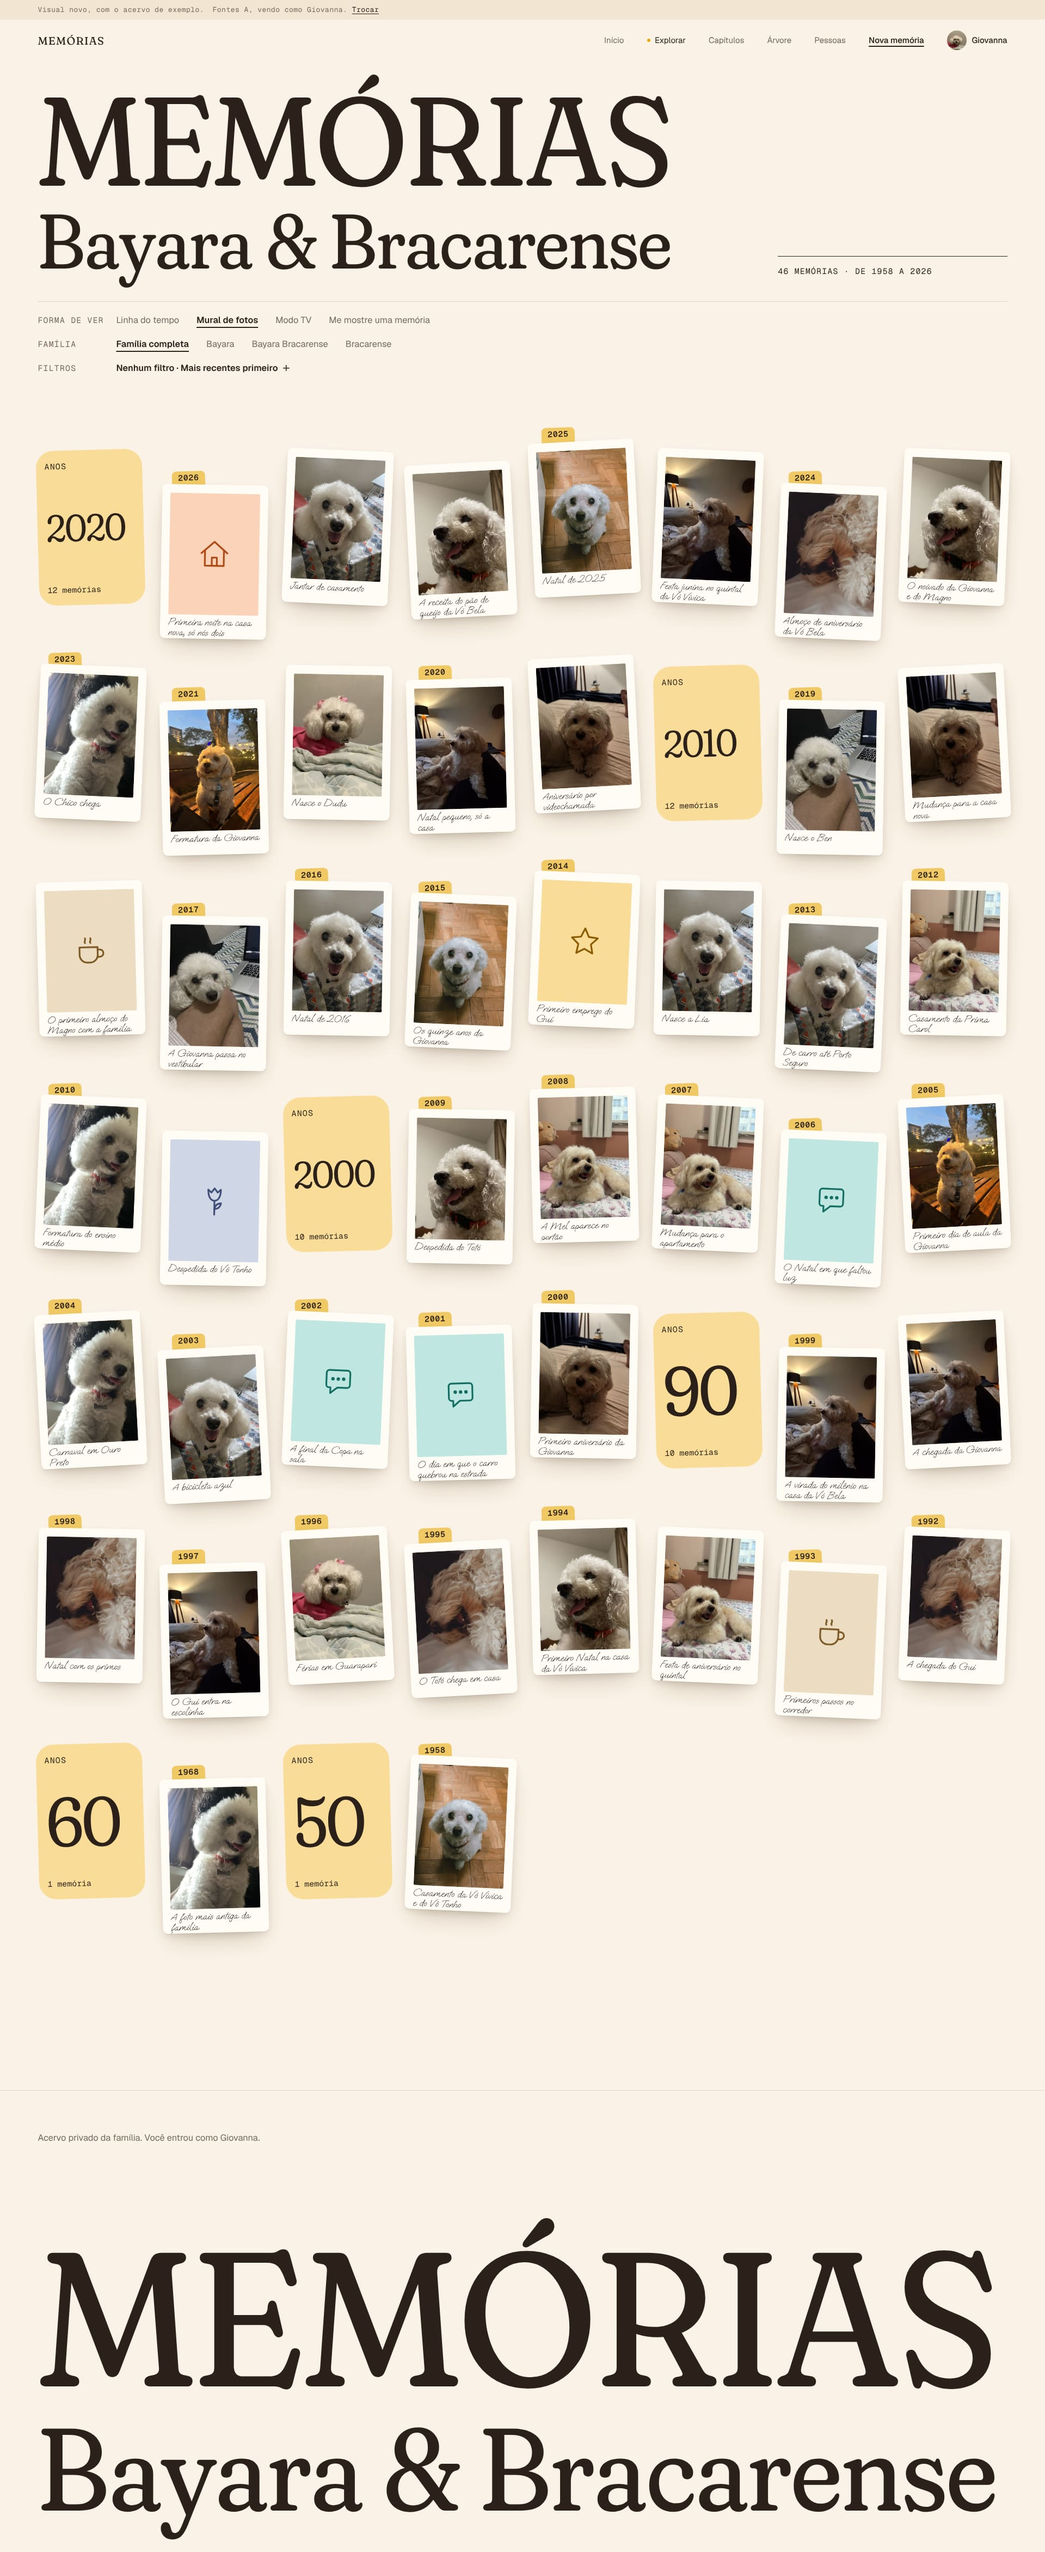
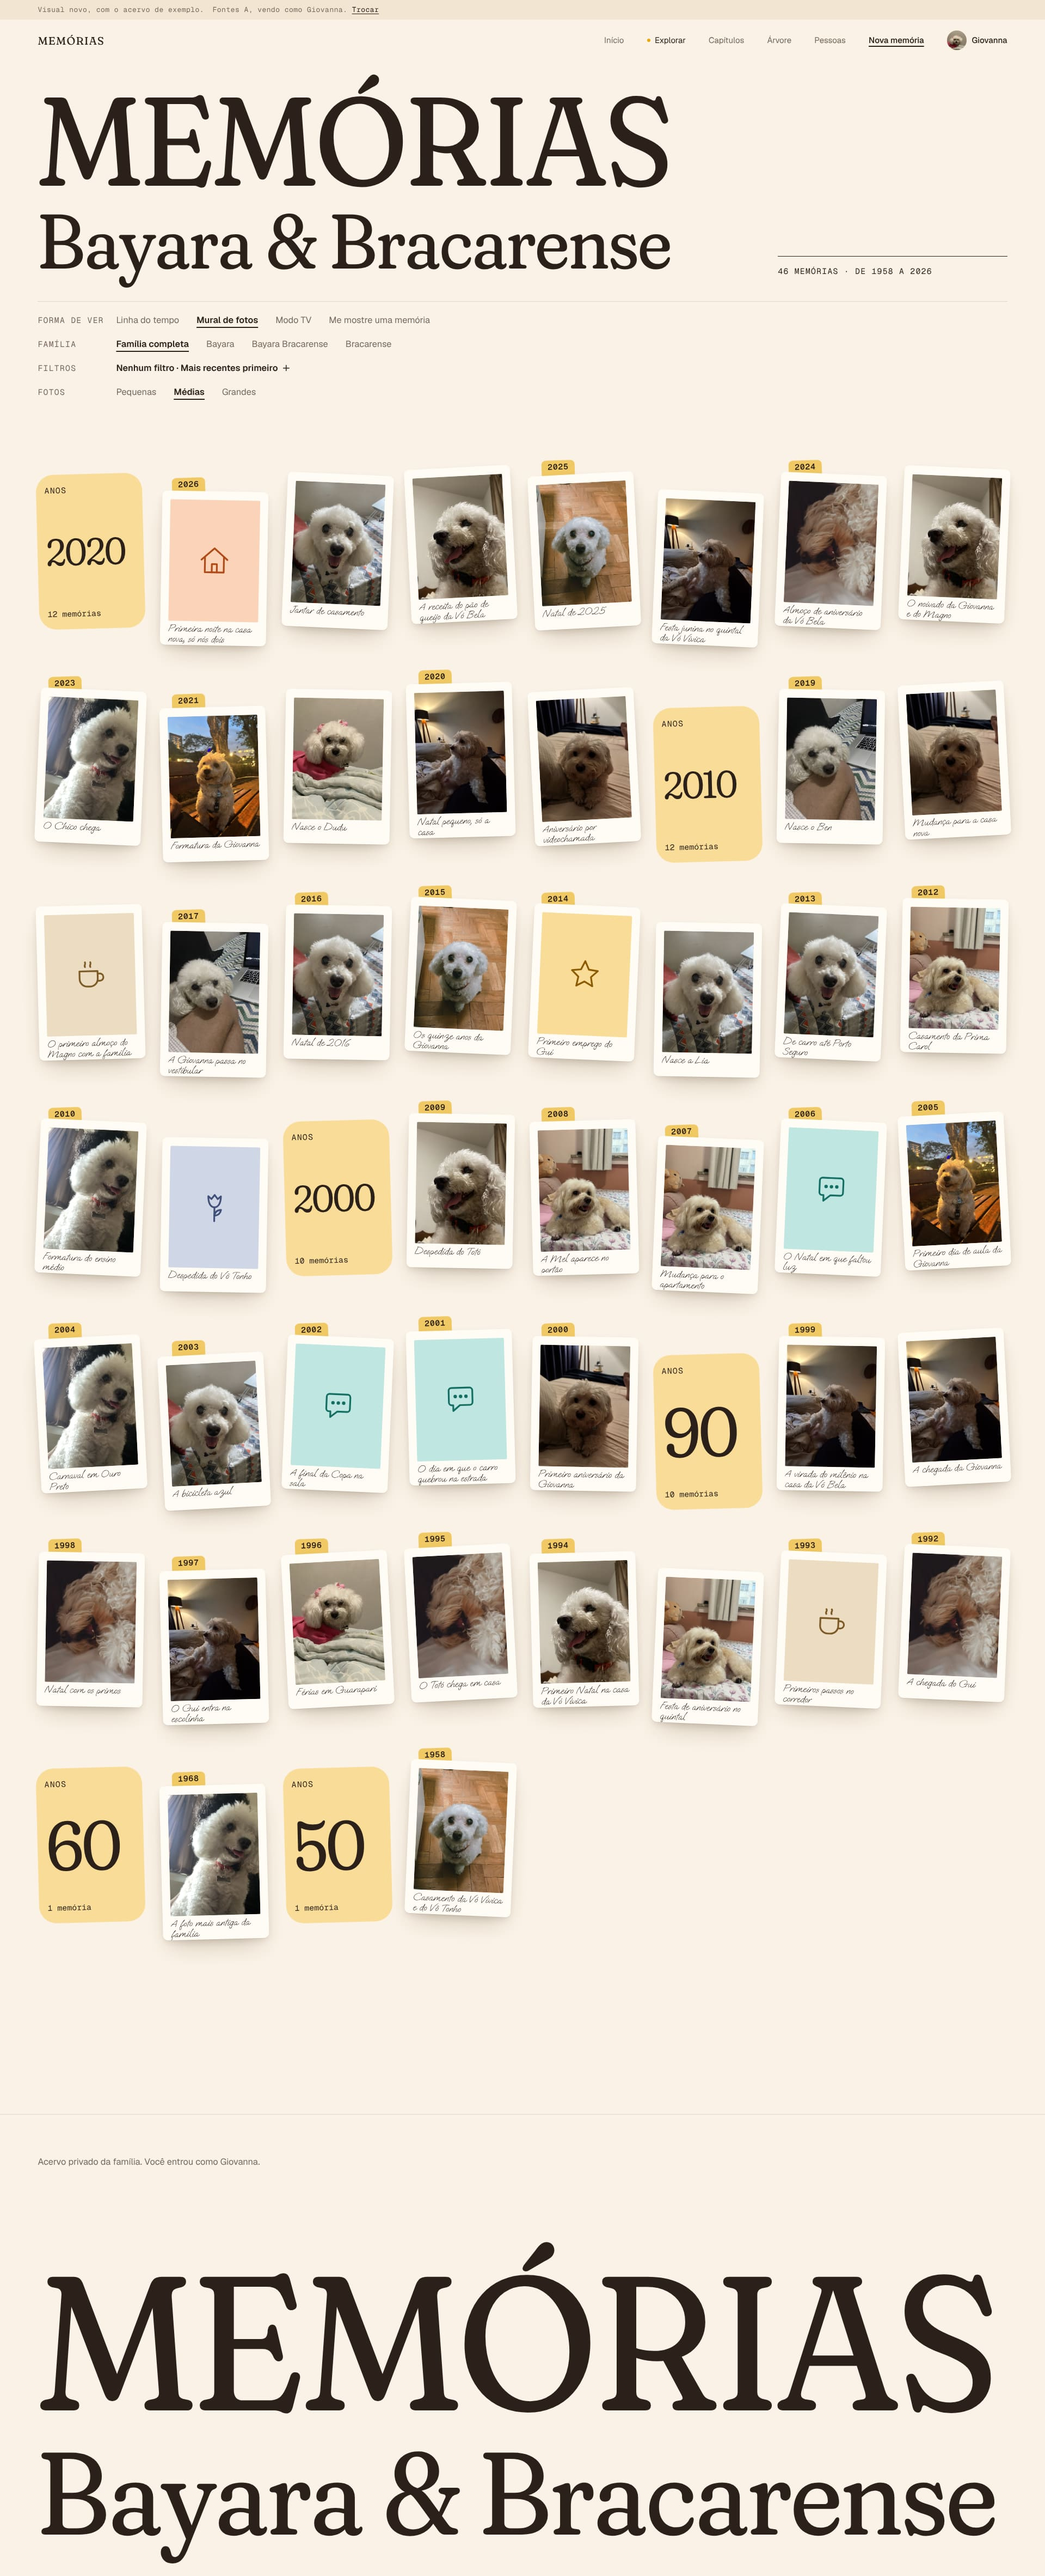
Mural: o verso em dupla ao lado da foto e o tamanho das fotos
Decisões do Gui (17/11/2026). A aba do ano e o cartão da década ficam.

- O verso deixa de ser uma ficha pequena: é um cartão do tamanho da
  foto, que sai de trás dela para o lado, como uma dupla.
- O controle "Fotos" escolhe a densidade do mural: pequenas, médias ou
  grandes. A escolha fica no endereço e acompanha família e filtros.
- Testes das duas regras, capturas refeitas e registro em docs/visual.md.

Claude-Session: https://claude.ai/code/session_011NsaCMeNce7JqX6hEeTsgT

diff --git a/src/visual/telas/explorar.css b/src/visual/telas/explorar.css
@@ -174,34 +174,42 @@
   rotate: -2deg;
 }
 
-/* A ficha do verso: fica atrás da foto e só desliza para o lado onde há mouse, ou com o foco do
-   teclado. No toque ela não aparece: o título na margem basta. O leitor de tela lê sempre. */
+/* O verso: um cartão do tamanho da foto, que sai de trás dela para o lado, um pouco virado para o
+   outro lado, como uma dupla. Só onde há mouse, ou com o foco do teclado. No toque ele não aparece:
+   o título na margem basta. O leitor de tela lê sempre. */
 .mural__verso {
   position: absolute;
   z-index: 0;
-  top: 16%;
-  left: calc(100% - 1.25rem);
+  top: 0;
+  left: 90%;
+  box-sizing: border-box;
   display: grid;
+  align-content: start;
   justify-items: start;
-  gap: var(--e-2);
-  width: max-content;
-  max-width: 15rem;
-  padding: var(--e-4) var(--e-4) var(--e-4) calc(var(--e-4) + 1.25rem);
+  gap: var(--e-3);
+  width: max(100%, 10.5rem);
+  min-height: 100%;
+  padding: var(--e-5) var(--e-4) var(--e-4) calc(var(--e-4) + 6%);
   border-radius: var(--raio-moldura);
   background: var(--branco);
-  box-shadow: var(--sombra-bilhete);
+  box-shadow: var(--sombra-foto);
   opacity: 0;
-  translate: -1.5rem 0;
+  translate: -45% 0;
+  rotate: 0deg;
   pointer-events: none;
   transition:
     opacity var(--tempo-curto) var(--curva),
-    translate var(--tempo-medio) var(--curva);
+    translate var(--tempo-medio) var(--curva),
+    rotate var(--tempo-medio) var(--curva);
+}
+.mural__verso .carimbo {
+  white-space: normal;
 }
 .mural__foto[data-para-a-esquerda] .mural__verso {
   left: auto;
-  right: calc(100% - 1.25rem);
-  padding: var(--e-4) calc(var(--e-4) + 1.25rem) var(--e-4) var(--e-4);
-  translate: 1.5rem 0;
+  right: 90%;
+  padding: var(--e-5) calc(var(--e-4) + 6%) var(--e-4) var(--e-4);
+  translate: 45% 0;
 }
 .mural__foto:has(a:focus-visible) {
   z-index: 3;
@@ -209,6 +217,10 @@
 .mural a:focus-visible .mural__verso {
   opacity: 1;
   translate: 0 0;
+  rotate: 2.5deg;
+}
+.mural__foto[data-para-a-esquerda] a:focus-visible .mural__verso {
+  rotate: -2.5deg;
 }
 @media (hover: hover) and (pointer: fine) {
   .mural__foto:hover {
@@ -217,7 +229,34 @@
   .mural a:hover .mural__verso {
     opacity: 1;
     translate: 0 0;
+    rotate: 2.5deg;
   }
+  .mural__foto[data-para-a-esquerda] a:hover .mural__verso {
+    rotate: -2.5deg;
+  }
+}
+
+/* O tamanho das fotos: quem está vendo escolhe. Nas pequenas do celular, o título não cabe na
+   margem e fica só a foto. */
+.mural[data-tamanho='pequenas'] {
+  grid-template-columns: repeat(3, minmax(0, 1fr));
+  gap: var(--e-6) var(--e-3);
+}
+.mural[data-tamanho='grandes'] {
+  grid-template-columns: minmax(0, 1fr);
+  padding-inline: 12%;
+}
+.mural[data-tamanho='grandes'] li:nth-child(n) {
+  translate: none;
+}
+@container (max-width: 7.5rem) {
+  .mural .polaroid .polaroid__legenda {
+    font-size: 0;
+  }
+}
+/* As três opções de tamanho cabem numa linha, mesmo no celular */
+.linha__opcoes--curtas {
+  grid-template-columns: repeat(3, max-content);
 }
 
 /* --- O palco: uma memória por vez ----------------------------------------------------------------
@@ -385,19 +424,28 @@
   .filtros__acoes {
     grid-column: 1 / -1;
   }
-  .mural {
-    grid-template-columns: repeat(6, minmax(0, 1fr));
+  .mural,
+  .mural[data-tamanho] {
+    --colunas: 6;
+    grid-template-columns: repeat(var(--colunas), minmax(0, 1fr));
     gap: var(--e-8) var(--calha);
     padding-top: var(--e-8);
+    padding-inline: var(--margem);
   }
-  .mural li:nth-child(even) {
+  .mural[data-tamanho='pequenas'] {
+    --colunas: 8;
+    row-gap: var(--e-7);
+  }
+  .mural[data-tamanho='grandes'] {
+    --colunas: 4;
+  }
+  .mural li:nth-child(n) {
     translate: none;
   }
-  .mural li:nth-child(6n + 2),
-  .mural li:nth-child(6n + 5) {
+  .mural li:nth-child(4n + 2) {
     translate: 0 var(--e-6);
   }
-  .mural li:nth-child(6n + 4) {
+  .mural li:nth-child(4n) {
     translate: 0 calc(-1 * var(--e-3));
   }
 
@@ -448,20 +496,14 @@
 }
 
 @media (min-width: 100rem) {
-  .mural {
-    grid-template-columns: repeat(8, minmax(0, 1fr));
+  .mural,
+  .mural[data-tamanho] {
+    --colunas: 8;
   }
-  .mural li:nth-child(n) {
-    translate: none;
+  .mural[data-tamanho='pequenas'] {
+    --colunas: 10;
   }
-  .mural li:nth-child(8n + 2),
-  .mural li:nth-child(8n + 7) {
-    translate: 0 var(--e-7);
-  }
-  .mural li:nth-child(8n + 4) {
-    translate: 0 var(--e-5);
-  }
-  .mural li:nth-child(8n + 5) {
-    translate: 0 calc(-1 * var(--e-4));
+  .mural[data-tamanho='grandes'] {
+    --colunas: 5;
   }
 }

diff --git a/testes/visual.test.ts b/testes/visual.test.ts
@@ -274,17 +274,29 @@ describe('conceito', () => {
     expect(css).not.toMatch(/position\s*:\s*(sticky|fixed)/);
   });
 
-  it('no mural, a ficha do verso só aparece com o mouse ou com o foco do teclado, e a foto não vira', () => {
-    // Decisão do Gui, 17/11/2026: a ficha desliza de trás da foto, que continua à vista
+  it('no mural, o verso aparece ao lado da foto, como uma dupla, só com o mouse ou com o foco, e a foto não vira', () => {
+    // Decisão do Gui, 17/11/2026: o verso é um cartão do tamanho da foto, que sai de trás dela
     const mural = tela('explorar/Mural.astro');
     expect(mural).toMatch(/<span class="mural__verso">\s*<Carimbo itens=\{\[carimboDaData\(m\), m\.lugar\]\} \/>/);
     const css = ler('telas/explorar.css');
-    expect(css).toMatch(/\.mural__verso\s*\{[^}]*opacity:\s*0;[^}]*pointer-events:\s*none/);
+    expect(css).toMatch(/\.mural__verso\s*\{[^}]*width:\s*max\(100%, [^}]*min-height:\s*100%;[^}]*opacity:\s*0;[^}]*pointer-events:\s*none/);
     const comMouse = css.slice(css.indexOf('@media (hover: hover) and (pointer: fine)'));
     expect(comMouse).toMatch(/\.mural a:hover \.mural__verso\s*\{[^}]*opacity:\s*1/);
     expect(css.slice(0, css.indexOf('@media (hover: hover) and (pointer: fine)'))).not.toMatch(/:hover \.mural__verso/);
     expect(css).toMatch(/\.mural a:focus-visible \.mural__verso\s*\{[^}]*opacity:\s*1/);
     expect(css).not.toMatch(/rotate[XY]|backface-visibility|perspective/);
+  });
+
+  it('no mural, quem está vendo escolhe o tamanho das fotos, e a escolha fica no endereço', () => {
+    // Decisão do Gui, 17/11/2026
+    const controles = tela('explorar/Controles.astro');
+    expect(controles).toMatch(/forma === 'mural' && \(\s*<div class="controle">\s*<p class="controle__nome rotulo suave" id="controle-tamanho">\s*Fotos\s*</);
+    expect(controles).toMatch(/enderecoDoExplorar\(filtros, forma, tamanhoNoEndereco\(t\)\)/);
+    // O tamanho acompanha a troca de família e o formulário dos filtros
+    expect(controles).toMatch(/<input type="hidden" name="tamanho"/);
+    expect(tela('explorar/Mural.astro')).toMatch(/data-tamanho=\{tamanho\}/);
+    const css = ler('telas/explorar.css');
+    for (const t of ['pequenas', 'grandes']) expect(css).toContain(`.mural[data-tamanho='${t}']`);
   });
 
   it('o modo TV passa as memórias por links, e só passa sozinho quando a pessoa liga', () => {

diff --git a/src/lib/explorar.ts b/src/lib/explorar.ts
@@ -234,6 +234,23 @@ export function enderecoDoExplorar(f: Filtros, forma: Forma = FORMA_PADRAO, mais
 }
 
 /**
+ * O tamanho das fotos no mural (decisão do Gui, 17/11/2026): quem está vendo escolhe a densidade,
+ * com fotos menores ou maiores. Fica no endereço, em `tamanho`; sem ele, o tamanho médio.
+ */
+export type Tamanho = 'pequenas' | 'medias' | 'grandes';
+export const TAMANHOS: Tamanho[] = ['pequenas', 'medias', 'grandes'];
+export const TAMANHO_PADRAO: Tamanho = 'medias';
+export const NOMES_DOS_TAMANHOS: Record<Tamanho, string> = { pequenas: 'Pequenas', medias: 'Médias', grandes: 'Grandes' };
+
+export function lerTamanho(p: URLSearchParams): Tamanho {
+  const pedido = p.get('tamanho');
+  return TAMANHOS.includes(pedido as Tamanho) ? (pedido as Tamanho) : TAMANHO_PADRAO;
+}
+
+/** O que vai no endereço para um tamanho (para `mais`, em enderecoDoExplorar): o padrão não vai. */
+export const tamanhoNoEndereco = (tamanho: Tamanho): Record<string, string | undefined> => ({ tamanho: tamanho === TAMANHO_PADRAO ? undefined : tamanho });
+
+/**
  * "Passar sozinho", no modo TV (decisão do Gui, 17/11/2026): quem está vendo escolhe o tempo de
  * cada memória, entre 8, 10 e 15 segundos, e pode pausar e retomar. Fica no endereço, como os
  * filtros: `passar` leva os segundos e `pausa`, a pausa. Sem `passar`, nada passa sozinho.

diff --git a/testes/explorar.test.ts b/testes/explorar.test.ts
@@ -210,6 +210,19 @@ describe('formas de ver e endereço', async () => {
     expect(enderecoDoExplorar(SEM_FILTRO, 'tv', { m: 'a', ...passarNoEndereco({ tempo: 15, pausado: true }) })).toBe('/explorar?ver=tv&m=a&passar=15&pausa=1');
   });
 
+  it('o tamanho das fotos do mural fica no endereço, e o médio é o padrão', async () => {
+    // Decisão do Gui, 17/11/2026
+    const { TAMANHOS, lerTamanho, tamanhoNoEndereco } = await import('../src/lib/explorar');
+    expect(TAMANHOS).toEqual(['pequenas', 'medias', 'grandes']);
+    expect(lerTamanho(new URLSearchParams(''))).toBe('medias');
+    expect(lerTamanho(new URLSearchParams('tamanho=enormes'))).toBe('medias');
+    expect(enderecoDoExplorar(SEM_FILTRO, 'mural', tamanhoNoEndereco('medias'))).toBe('/explorar?ver=mural');
+    for (const t of TAMANHOS) {
+      const endereco = enderecoDoExplorar(SEM_FILTRO, 'mural', tamanhoNoEndereco(t));
+      expect(lerTamanho(new URLSearchParams(endereco.split('?')[1]))).toBe(t);
+    }
+  });
+
   it('no modo TV, a de antes e a de depois saem da lista filtrada, na ordem dela', () => {
     const lista = [{ id: 'a' }, { id: 'b' }, { id: 'c' }];
     expect(vizinhasNaLista(lista, 'b')).toEqual({ posicao: 1, antes: { id: 'a' }, depois: { id: 'c' } });

diff --git a/docs/visual.md b/docs/visual.md
@@ -436,13 +436,14 @@ Cada grupo de telas vai num PR para a `homologa`, numa branch `tst-visual-<grupo
 
 **Linha do tempo.** A do conceito, sem mudança de desenho. Os trilhos, as épocas e a faixa de décadas só aparecem quando `mostraTrilhos` deixa. Em "Mais antigas primeiro", a página leva ao presente e o trilho acaba, embaixo, em "Fim do capítulo “Natais”" e "Fim da época “…”" (texto novo, para o Gui confirmar). Em "Entraram por último" e "Mais contadas", a lista é corrida, sem a divisória dos anos, e cada memória traz a data inteira.
 
-**Mural** (decisões do Gui, 17/11/2026, em três rodadas). A primeira versão era só as fotos, sem texto. Na segunda, a pedido dele, as fotos ficaram agrupadas por ano, com o ano grande como cabeçalho e o título na margem; ao ver, ele achou que o mural tinha virado uma segunda linha do tempo: o ano é para facilitar, e o mural precisa orientar sem perder a cara de mural. A terceira, que vale:
+**Mural** (decisões do Gui, 17/11/2026, em quatro rodadas). A primeira versão era só as fotos, sem texto. Na segunda, a pedido dele, as fotos ficaram agrupadas por ano, com o ano grande como cabeçalho e o título na margem; ao ver, ele achou que o mural tinha virado uma segunda linha do tempo: o ano é para facilitar, e o mural precisa orientar sem perder a cara de mural. A terceira, que vale:
 
-- **Uma superfície só.** As fotos-chave como fotos reveladas, de ponta a ponta, cada uma com a inclinação dela e um pouco fora de fila, sem cabeçalho nem seção. Duas colunas no celular (com três, o título à mão ficava pequeno demais para ler), seis no computador e oito na tela grande.
+- **Uma superfície só.** As fotos-chave como fotos reveladas, de ponta a ponta, cada uma com a inclinação dela e um pouco fora de fila, sem cabeçalho nem seção. No tamanho médio, duas colunas no celular (com três, o título à mão ficava pequeno demais para ler), seis no computador e oito na tela grande.
 - **A década é um cartão no meio das fotos.** Ocupa o lugar de uma foto, na cor da família, com "Anos" e o número grande em serifa ("90", "2010") e a conta das memórias da década. A fila de fotos continua na mesma linha depois dele. Um cartão por ano foi descartado: o acervo de exemplo tem 46 memórias em cerca de 30 anos, e seriam quase tantos cartões quanto fotos.
 - **O ano é uma aba na primeira foto de cada ano**, como a de um fichário, saindo do alto da foto. Não ocupa lugar e não interrompe a fila.
 - **O título na margem.** Só o título da memória, pequeno, na letra manuscrita, em até duas linhas. Vale também para a memória sem foto, que entra como cartão na cor do tipo. É o segundo uso da manuscrita, que até aqui só assinava os relatos.
-- **A ficha do verso, no computador.** Ao passar o mouse, a foto endireita e sobe um pouco e, de trás dela, desliza uma ficha com o carimbo (data e lugar), quem estava e quantos relatos. A foto continua à vista, e o clique abre a memória, que é o verso inteiro. Perto da borda direita da tela, a ficha sai para a esquerda. O foco do teclado faz o mesmo, e com movimento reduzido a ficha aparece sem deslizar. No toque ela não aparece: o título na margem basta. Virar a foto foi pensado e descartado: esconde a foto no momento em que a pessoa aponta para ela, faz várias virarem em sequência quando o mouse passa pela grade e fica perto do "cartão que deita", que está fora do movimento combinado.
+- **O verso, no computador** (quarta rodada: a ficha pequena que deslizava de trás da foto não funcionou; a aba do ano e o cartão da década, sim). Ao passar o mouse, a foto endireita e sobe um pouco e o verso dela aparece ao lado, saindo de trás, como uma dupla: um cartão do mesmo tamanho da foto, um pouco virado para o outro lado, com o carimbo (data e lugar), quem estava e quantos relatos. A foto continua à vista, e o clique abre a memória. Perto da borda direita da tela, o verso sai para a esquerda. O foco do teclado faz o mesmo, e com movimento reduzido o verso aparece sem deslizar. No toque ele não aparece: o título na margem basta. Virar a foto foi pensado e descartado: esconde a foto no momento em que a pessoa aponta para ela, faz várias virarem em sequência quando o mouse passa pela grade e fica perto do "cartão que deita", que está fora do movimento combinado.
+- **O tamanho das fotos** (decisão do Gui, 17/11/2026). No mural, o controle "Fotos" deixa escolher a densidade: Pequenas, Médias (o padrão) ou Grandes. Fica no endereço (`tamanho`), como os filtros, e acompanha a troca de família e o formulário. Colunas no celular, no computador e na tela grande: 3, 8 e 10 nas pequenas; 2, 6 e 8 nas médias; 1, 4 e 5 nas grandes. Nas pequenas do celular o título não cabe na margem e fica só a foto.
 - **Fora da ordem do tempo** ("Entraram por último" e "Mais contadas"), saem os cartões de década e as abas de ano, como os trilhos na linha do tempo, e a ficha do verso passa a ser o lugar da data.
 
 **Modo TV.** Uma memória por página, na tela inteira, sem o topo e o rodapé do site: a cor do tipo de momento no fundo, a foto inteira com margem de ampliação, o carimbo, o título, um trecho do relato assinado à mão e quem estava. "Anterior" e "Próxima" são links, com o foco já em "Próxima" (no controle da TV, o botão do meio passa); as setas do teclado passam, o Esc sai e tocar na foto passa para a seguinte. A troca esmaece pela transição entre páginas do navegador, só para quem não pediu menos movimento: com movimento reduzido, a troca é sem animação. A memória da vez vai no endereço (`m`).
@@ -464,7 +465,7 @@ O mural, o modo TV e o sorteio não mostram rascunho: o rascunho só aparece na 
 
 **Decidido pelo Gui em 17/11/2026, ao ver o PR #35:** ficam o endereço `/explorar`, o nome "Forma de ver" e os textos do formulário ("O que a memória tem", "Seus relatos", "Você já contou", "Você estava e ainda não contou", "Quem estava junto", "Mostrar memórias", "Limpar filtros", "Nenhuma memória passa nesses filtros."), do palco ("Sair do modo TV", "Passar sozinho", "Parar de passar sozinho", "Abrir esta memória", "Uma memória ao acaso", "Me mostre outra", "Voltar ao Explorar") e do pé do trilho ("Fim do capítulo" e "Fim da época", na ordem das mais antigas). Mudaram o mural e o "Passar sozinho", como descrito acima.
 
-**Para o Gui ver na prévia:** os textos "8 segundos", "10 segundos" e "15 segundos", "Pausar" e "Retomar"; no mural, as duas colunas no celular, o cartão da década ("Anos 90", "Anos 2010"), a aba do ano e a ficha do verso ("Com Elizete, Giovanna e Gui", "2 relatos"). A aba do ano precisa ser conferida com as pessoas mais velhas: se passar batida, a saída é o ano na margem de toda foto.
+**Para o Gui ver na prévia:** os textos "8 segundos", "10 segundos" e "15 segundos", "Pausar" e "Retomar"; no mural, as duas colunas no celular, o cartão da década ("Anos 90", "Anos 2010"), a aba do ano, o verso em dupla ("Com Elizete, Giovanna e Gui", "2 relatos") e o controle "Fotos" ("Pequenas", "Médias", "Grandes"). A aba do ano precisa ser conferida com as pessoas mais velhas: se passar batida, a saída é o ano na margem de toda foto.
 
 **Capturas.** `CAPTURAS_SO=^explorar npm run capturas -- tirar <pasta>`. As deste grupo estão em `docs/visual/fase-3/explorar/`.
 
